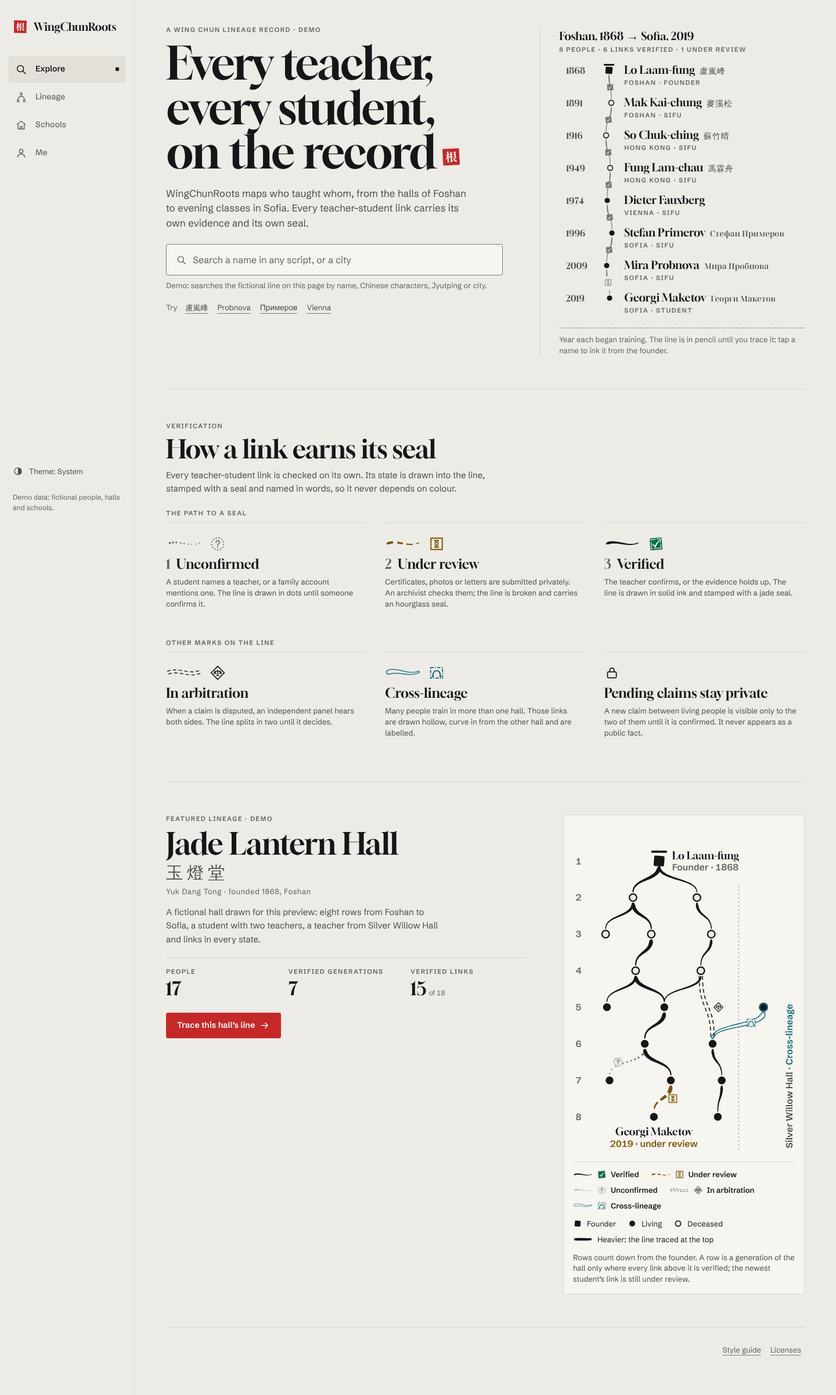
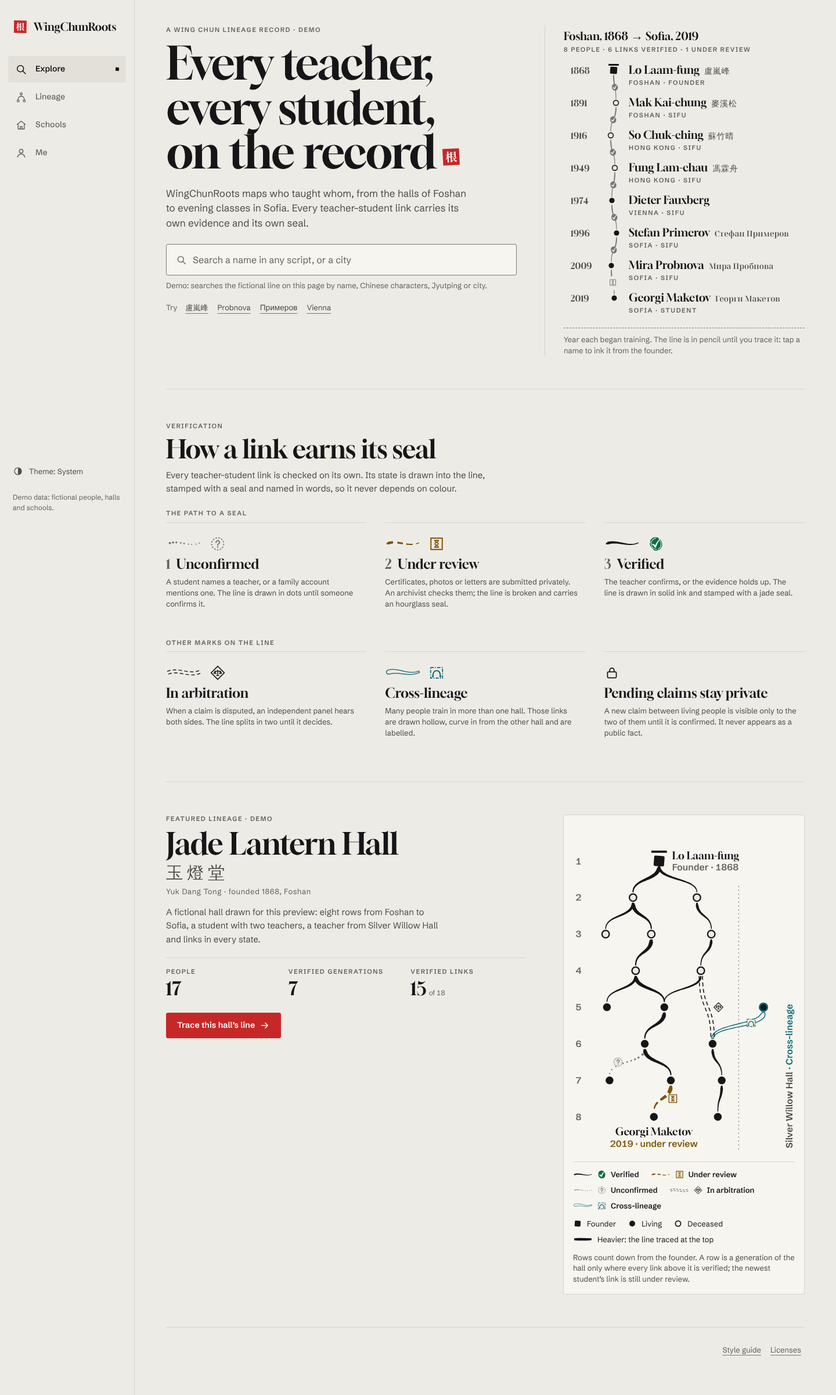
docs(m00b): second review round in the direction, ADR, guide and screenshots
Records the clipped peek, the focus expansion, the published sheet room,
the one-column home line up to 1280 px and the round verified chop in
docs/design/direction.md, ADR 0006 and the user guide; adds the seal shape
to question 2 and a third round to the design review; regenerates the
screenshots of / and /styleguide.

Claude-Session: https://claude.ai/code/session_01STyQUAPRBBmWDHTxvJbxAV

Changed region(s): [[0.6875, 0.0, 0.9062, 0.2499]]

diff --git a/docs/adr/0006-design-system.md b/docs/adr/0006-design-system.md
@@ -29,7 +29,7 @@ M00b превежда избраната дизайн посока в токен
 
    | Състояние | Щрих | Печат | Текст |
    |---|---|---|---|
-   | Потвърдено | плътен, в мастило (`--fg`) | нефритен печат, натиснат леко накриво, с ръб, „попил“ в хартията, и отметка с четка, издълбана в него (негатив); при 20 px и повече и издълбана рамка | „Verified“ |
+   | Потвърдено | плътен, в мастило (`--fg`) | кръгъл нефритен печат, натиснат леко накриво, с отметка с четка, издълбана в него (негатив); при 20 px и повече неравен, изрязан на ръка ръб и издълбан пръстен, прекъснат там, където отметката излиза от него; под 20 px отделна опростена рисунка (гладък овал и по-плътна отметка). Квадратният печат от първия кръг се четеше като квадратче за отметка (☑) | „Verified“ |
    | В преглед | накъсан | пясъчен часовник | „Under review“ |
    | Непотвърдено | пунктир от точки | „?“ | „Unconfirmed“ |
    | Арбитраж | двоен | везни | „In arbitration“ |
@@ -53,12 +53,12 @@ M00b превежда избраната дизайн посока в токен
 7. **Компоненти.** shadcn/ui върху Base UI 1.9.0 (`components.json`, стил `base-nova`), оформени по посоката, в `src/components/ui/`: Button, Input, Dialog, Drawer (долен панел на телефон, страничен панел вдясно от 768 px; виж т. 7а), Menu, Tabs, Toast, Skeleton, StatusBadge и TrailChip. Button има вариант `danger` за разрушителни действия (рамка и надпис в `--danger`, не в червеното на марката) и натиснат тон за всеки вариант, една стъпка след посочения. Toast е „листче“ върху `surface-2` с черта 3 px в цвета на вида (`verified`, `under_review`, `info`), печат за състоянието и 10 s до затваряне (паузира при посочване, фокус и докосване). Dialog е центриран от 640 px, с линия под заглавието; когато е по-висок от екрана, превърта целият изглед, така че заглавието и „Close“ остават достъпни. Менюто се рисува в `<main>`, за да остане всичко в ориентир (axe „region“). Навсякъде `render`, никога `asChild` (`scripts/verify.d/M00b.sh` го проверява). Отворен панел или диалог добавя запис в историята (`use-back-to-close.ts`), затова бутонът „Назад“ на Android затваря най-горния слой. `/styleguide` (`noindex`) показва токените и компонентите в двете теми.
 8. **Обвивка** (`src/components/shell/`). Телефон: горна лента (56 px) и четири раздела долу (64 px плюс безопасната зона): Explore, Lineage, Schools, Me. Компютър: странична лента 232 px. `viewport-fit=cover` и `env(safe-area-inset-*)`, `min-h-dvh` (никъде `100vh` или `h-screen`), цели за докосване поне 44×44 px, нищо само при посочване, връзка „Skip to content“. Разделите на бъдещите маршрути (`/explore`, `/schools`, `/dashboard`) засега водят до страницата „not drawn yet“ (404) и не се зареждат предварително.
 9. **Движение.** 150/200/250 ms с `ease-out`; проследяването с мастило до основателя върви само след докосване, по 110 ms на поколение и общо до 1 s, и никога не спира въвеждането. Нищо не тръгва само. При `prefers-reduced-motion: reduce` всички продължителности са 0 ms.
-7а. **Долен и страничен панел (Drawer).** На телефон модалният панел (по подразбиране) се отваря на половин височина, където се вижда затъмнението зад него; спира на половин и цял екран (`MODAL_SNAP_POINTS`). Затъмнението е плътно на всяка точка на спиране и избледнява само при отваряне и затваряне. Немодалният панел (над карта или граф) се отваря „надникнал“: поне 96 px и никога по-нисък от собствената си заглавна част, така че заглавие на два реда при 150 % текст се вижда цяло; спира на надникване, половин и цял екран (`PEEK_SNAP_POINTS`). Той стои над долните раздели, които пазят безопасната зона, така че навигацията остава достъпна, а докато надниква, тялото му е `inert` и клавиатурата не стига до съдържание извън екрана. Влаченето е за цялото тяло; „Expand“/„Collapse“ и „Close“ са алтернативата. Всяко отваряне започва от първата точка. От 768 px същият компонент е страничен панел вдясно, широк `--sheet-w` (420 px) и висок колкото прозореца, който се плъзга надясно; това е мястото, където M05 ще показва доказателствата (Living Archive).
+7а. **Долен и страничен панел (Drawer).** На телефон модалният панел (по подразбиране) се отваря на половин височина, където се вижда затъмнението зад него; спира на половин и цял екран (`MODAL_SNAP_POINTS`). Затъмнението е плътно на всяка точка на спиране и избледнява само при отваряне и затваряне. Немодалният панел (над карта или граф) се отваря „надникнал“: поне 96 px и никога по-нисък от собствената си заглавна част, така че заглавие на два реда при 150 % текст се вижда цяло; спира на надникване, половин и цял екран (`PEEK_SNAP_POINTS`). Той лежи върху долните раздели, които пазят безопасната зона, и изгледът му го отрязва там (`max-md:overflow-hidden`): Base UI измества цял панел надолу до точката на спиране, а неотрязаната част се рисуваше върху разделите и ги правеше недостъпни. Панелът е висок най-много колкото изгледа си, затова и разгънат остава над разделите. Докато надниква, тялото му е `inert` и клавиатурата не стига до съдържание извън екрана. Под пълната височина фокус, който попадне под долния ръб на изгледа (Tab или скрипт; с пръст не може), първо разгъва панела, така че фокусираният елемент не е скрит (WCAG 2.4.11). Докато е отворен, панелът публикува на `<html>` колко място заема: `--sheet-clear` на телефон (от долния край на прозореца до горния ръб на панела при точката на спиране) и `--sheet-inline` от 768 px (ширината на страничния панел); Toast се показва над панела или вляво от страничния панел, а не върху заглавието и бутоните му. Влаченето е за цялото тяло; „Expand“/„Collapse“ и „Close“ са алтернативата. Всяко отваряне започва от първата точка. От 768 px същият компонент е страничен панел вдясно, широк `--sheet-w` (420 px) и висок колкото прозореца, който се плъзга надясно; това е мястото, където M05 ще показва доказателствата (Living Archive).
 10. **Бюджети и автоматични проверки.**
     - `scripts/check-bundle-budget.mjs` след `next build`: първоначално зареденият JavaScript на всеки маршрут, gzip, ≤ 170 kB (1 kB = 1000 байта). Брои основните файлове от `build-manifest.json` и всички клиентски входове на маршрута от `*_client-reference-manifest.js` без страницата за глобална грешка и проверява срещу `<script src>` в предварително рендерирания HTML, така че промяна в манифестите на Next.js не може незабелязано да намали броенето. Към 17.10.2026 (след първия преглед): `/` 161,5 kB, `/legal/licenses` и `/_not-found` 146,4 kB, `/styleguide` 240,5 kB от своите 250 kB.
     - Lighthouse 13.4.1 за `/` в мобилен профил (`scripts/lighthouse.mjs` с `chrome-launcher` 1.2.1; праговете са в `lighthouserc.json`), три пускания, медианата: LCP < 2,5 s и CLS < 0,1. `scripts/verify.d/M00b.sh` и CI пускат собствен `next start` и печатат LCP и CLS. Скриптът замени `@lhci/cli` 0.15.1: последното му издание е от юни 2025, заключва Lighthouse 12.6.1 и внасяше в дървото за разработка осем известни уязвимости (пет високи), които `pnpm audit --prod` не вижда. `lighthouse` 13.4.1 изисква `puppeteer-core` с уязвим `basic-ftp`; `pnpm-workspace.yaml` го насочва към `puppeteer-core` 25.12.0 (`overrides`), който Lighthouse ползва само за потребителски потоци, не и за един URL.
     - INP (план §5.8 (в)) още не се мери: в M00b няма ключово взаимодействие с данни, а панелът и проследяването са демонстрации. Тестът с web-vitals и 4× забавяне на процесора идва в M05 с изследователя и истинския панел на човек.
-    - `e2e/routes.ts` е списъкът на страниците; `e2e/a11y.spec.ts` пуска axe на всяка от тях в двете теми. `e2e/ui.spec.ts` пуска axe и с отворени диалог, панели, меню и toast, и проверява поведението, което няма как да се види на снимка: „Назад“ затваря диалога и панела, без да оставя запис в историята, надникването и тялото `inert`, затъмнението на модалния панел, страничния панел от 768 px, текст при 150 % (редовете, разделите, заглавието на панела), полетата поне 16 px, нито един надпис под 11 px на `/` от 320 px до компютър (рисунката на залата също), връзката „Skip to content“ над безопасната зона, раздела Lineage след хидратация и проследяването с мастило (и при намалено движение).
+    - `e2e/routes.ts` е списъкът на страниците; `e2e/a11y.spec.ts` пуска axe на всяка от тях в двете теми. `e2e/ui.spec.ts` пуска axe и с отворени диалог, панели, меню и toast, и проверява поведението, което няма как да се види на снимка: „Назад“ затваря диалога и панела, без да оставя запис в историята, надникването и тялото `inert`, че нищо от надникващия панел не е нарисувано върху разделите (`elementFromPoint`, не само геометрия) и докосване на раздел навигира, фокус под половин височина разгъва панела, toast над отворен панел, затъмнението на модалния панел, страничния панел от 768 px, текст при 150 % (редовете, разделите — всеки надпис на един ред, и при 320 px —, заглавието на панела), имената в линията не се пренасят посред дума от 768 px до компютър и гръбнакът, нарисуван на сървъра, съвпада с имената без JavaScript от 390 px до 1440 px, полетата поне 16 px, нито един надпис под 11 px на `/` от 320 px до компютър (рисунката на залата също), връзката „Skip to content“ над безопасната зона, раздела Lineage след хидратация и проследяването с мастило (и при намалено движение).
     - Шрифтовете (`e2e/smoke.spec.ts`): предварително се зареждат точно двата latin файла; Noto Serif Display се тегли веднъж на `/` (има кирилско име) и изобщо не на `/legal/licenses`.
     - Визуална регресия (`e2e/visual.spec.ts`, таг `@visual`, проект `visual`) за `/` и `/styleguide` при 390×844 и 1440×900 в двете теми. Китайските знаци (системни шрифтове, различни на различните машини) и текстът на подсказките стават прозрачни чрез `stylePath` (`e2e/visual.css`), вместо да се закриват с маска, която закриваше и долните раздели. Върви само в CI, където Chromium е точно версията на закачения Playwright. Базовите снимки са в `e2e/__screenshots__/visual.spec.ts/*-linux.png` и се сменят само с commit (`docs/guides/admin-guide.bg.md`, „Визуална регресия“).
     - `@screenshots` (`pnpm screenshots`) записва `docs/screenshots/M00b/`.
@@ -118,7 +118,7 @@ M00b превежда избраната дизайн посока в токен
 ## Отворени въпроси към собственика
 
 1. **Посоката.** Ink Register или друга посока или смесица. Докато няма отговор, важи Ink Register.
-2. **Цветът на „Verified“.** Нефритено зелено (по подразбиране), червен печат като в прототипа (тогава червеното значи и марка, и потвърдено) или `#00E676` от плана. И трите минават контраста; статусът винаги има и форма, и текст.
+2. **Цветът и формата на „Verified“.** Нефритено зелено (по подразбиране), червен печат като в прототипа (тогава червеното значи и марка, и потвърдено) или `#00E676` от плана. И трите минават контраста; статусът винаги има и форма, и текст. Формата по подразбиране е кръгъл печат с издълбана отметка (т. 4), след като квадратният се четеше като квадратче за отметка.
 3. **Бюджетите и темата без JavaScript.** Бюджетът от 250 kB за `/styleguide`, Lighthouse с `devtools` вместо симулирано забавяне и темата, която без JavaScript следва системата (`questions/M00b.md`, въпрос 3).
 
 ## Решения по подразбиране
@@ -135,6 +135,8 @@ M00b превежда избраната дизайн посока в токен
 - Lighthouse с `devtools` забавяне, три пускания, медиана (въпрос 3 към собственика).
 - INP се мери от M05.
 - Модалният панел се отваря на половин височина; надникването е само за немодален панел.
+- Печатът „Verified“ е кръгъл (не квадратен), с отметка с четка; въпрос 2 към собственика.
+- Началната страница е в една колона до 1279 px; от 1280 px линията е в своя колона вдясно.
 - Основното действие на началната страница проследява линията, докато изследователят (M05) не съществува.
 - Бюджетът на `/styleguide` е 250 kB; 1 kB = 1000 байта (въпрос 3 към собственика).
 - Разделите на бъдещите маршрути водят до страницата „not drawn yet“.

diff --git a/docs/design/direction.md b/docs/design/direction.md
@@ -37,7 +37,7 @@ PR на M00b не се слива, докато собственикът не п
 |---|---|---|
 | Ink Lineage | Токените „мастило, хартия, печат“ (същите като план §5.2), серифен шрифт за имената (Gloock), шрифт за интерфейса (Schibsted Grotesk), статусът, нарисуван в щриха и подпечатан с печат, проследяването до основателя, което се „изписва“ с мастило след докосване | `src/design/tokens.ts`, `src/design/fonts.ts`, `src/components/ink/`, началната страница |
 | Living Archive | Карти с фиксиран размер за ELK, текстов надпис на всяка връзка от фокусирания път, лента „Gen ?“, чипове за връзки извън екрана, панел, който започва с доказателствата, съдържание под надникването, което е `inert` | M05 и M06 (изследователят); в M00b страничният панел от 768 px и `inert` при надникване (`src/components/ui/drawer.tsx`) |
-| Transit Map | Долният панел с надникване от поне 96 px (за немодален панел над карта или граф; модалният се отваря на половин височина); крайната спирка към основателя („↑ Gen 1 · <име>“) | `src/components/ui/drawer.tsx` (`PEEK`), крайната спирка на началната страница |
+| Transit Map | Долният панел с надникване от поне 96 px (за немодален панел над карта или граф, отрязан над долните раздели, които остават видими и докосваеми; модалният се отваря на половин височина); крайната спирка към основателя („↑ Gen 1 · <име>“) | `src/components/ui/drawer.tsx` (`PEEK`), крайната спирка на началната страница |
 | Constellation | Винаги видимата легенда; чипът „Back to <name>“, който връща по историята на фокуса | `src/components/ink/legend.tsx`, `src/components/ui/trail-chip.tsx` |
 
 ## Решения
@@ -45,13 +45,13 @@ PR на M00b не се слива, докато собственикът не п
 1. **Палитра.** Тъмната тема е „нощна хартия“: черен лак (`#121214`) с топло сиво мастило (`#EAEAEA`). Светлата тема е „оризова хартия“ (`#EDEBE5`) с лампово черно мастило (`#161618`). Тъмната е по подразбиране; темата следва системата, докато човек не избере ръчно.
 2. **Червеното е само за марката и основното действие.** Печатът на марката (`--brand`) и основният бутон. Червеното не означава „потвърдено“, не е избор, не е връзка и не е грешка (грешките са в отделен тон `--danger`).
 3. **„Verified“ не е червено.** Прототипът Ink Lineage рисува потвърдения печат в червено, а план §5.2 иска зелено (`#00E676`). По подразбиране потвърденото е нефритено зелено (`#45D98F` в тъмната тема, `#0A6E43` в светлата): по-спокойно от `#00E676`, със същата роля като в плана и различно от червения печат. Това е отворен въпрос към собственика ([`questions/M00b.md`](../plan/questions/M00b.md), ADR 0006).
-4. **Статусът никога само с цвят.** Всяко състояние има щрих, печат и текст: потвърдено — плътен щрих и нефритен печат, натиснат леко накриво, с издълбана отметка (не квадратче за отметка); в преглед — накъсан щрих и пясъчен часовник; непотвърдено — пунктир от точки и „?“; арбитраж — двоен щрих и везни; учител от друга линия — куха крива с надпис „Cross-lineage“. Легендата е винаги видима.
+4. **Статусът никога само с цвят.** Всяко състояние има щрих, печат и текст: потвърдено — плътен щрих и кръгъл нефритен печат, натиснат леко накриво, с издълбана отметка с четка (кръгъл като официален печат, за да не се чете като квадратче за отметка ☑; от 20 px нагоре с неравен, изрязан на ръка ръб и издълбан пръстен, прекъснат там, където отметката излиза от него; под 20 px опростен овал с по-плътна отметка; формата е въпрос към собственика заедно с цвета); в преглед — накъсан щрих и пясъчен часовник; непотвърдено — пунктир от точки и „?“; арбитраж — двоен щрих и везни; учител от друга линия — куха крива с надпис „Cross-lineage“. Легендата е винаги видима.
 5. **Приглушаване само с плътни тонове** (план §4.7): `--unconfirmed` за щрихите, `--border-strong` за рамките, `--fg-muted` за текста, а печатите с `tone="dim"` — същата форма без цвета на състоянието. Никога прозрачност. Непроследената линия е „чернова с молив“; проследяването я изписва с мастило, а приглушените редове слизат с един тон надолу, никога нагоре.
 6. **Шрифтове.** Gloock за имена, заглавия и числа; Schibsted Grotesk за интерфейса; Noto Serif Display за кирилица в заглавията (Gloock няма основна кирилица), зареждан само при нужда; системни CJK шрифтове за китайски. Всички се хостват от приложението. Най-малкият надпис е 11 px. Поколенията се пишат с арабски цифри.
 7. **Ъгли.** Остри, като на хартия: 2–6 px; долните панели имат мек горен ръб 18 px.
 8. **Движение.** Само след действие на човека, общо до 1 s, без нищо, което тръгва само. При „намалено движение“ всичко е мигновено.
 9. **Обвивка.** На телефон: горна лента и четири раздела долу (Explore, Lineage, Schools, Me); на компютър: странична лента. Безопасните зони (`env(safe-area-inset-*)`), `dvh`, цели за докосване поне 44×44 px, нищо само при посочване. Бутонът „Назад“ на Android затваря най-горния панел.
-10. **Началната страница.** Тезата („Every teacher, every student, on the record“), търсене в демо линията с мастилен „гръбнак“ до основателя, как връзката получава печата си („How a link earns its seal“: „The path to a seal“ и „Other marks on the line“) и една избрана линия с бутон „Trace this hall’s line“. На телефон линията е веднага под заглавието, така че първият екран показва самия предмет. Всички хора и зали са измислени (D20).
+10. **Началната страница.** Тезата („Every teacher, every student, on the record“), търсене в демо линията с мастилен „гръбнак“ до основателя, как връзката получава печата си („How a link earns its seal“: „The path to a seal“ и „Other marks on the line“) и една избрана линия с бутон „Trace this hall’s line“. На телефон и таблет (до 1279 px) линията е веднага под заглавието, така че първият екран показва самия предмет. От 1280 px линията е в своя колона вдясно (28 rem, от 1536 px 30 rem), достатъчно широка, за да е всяко име с оригинала си на един ред: така редовете са с еднаква височина и гръбнакът, нарисуван на сървъра, съвпада с имената и преди JavaScript. Всички хора и зали са измислени (D20).
 
 ## Как се сменя посоката
 

diff --git a/docs/design/reviews/M00b.md b/docs/design/reviews/M00b.md
@@ -20,6 +20,17 @@
 | Метаредовете в демо линията („FOSHAN · FOUNDER“) са на 1 px под името; в Ink Lineage ритъмът е по-свободен | 4 px между името и метареда; редовете остават по 56 px |
 | Снимките от CI (Chromium на закачения Playwright) показват същите шрифтове и разстояния като местните; китайските имена се маскират, защото идват от системните шрифтове | Без промяна |
 
+## Кръг 3 (17.10.2026, втори преглед след поправките)
+
+| Находка | Решение |
+|---|---|
+| Квадратният печат „Verified“ с издълбана рамка и отметка се чете като квадратче за отметка (☑), най-вече при 13 px в линията и в значката „Verified“ | Кръгъл печат, натиснат леко накриво, с отметка с четка; от 20 px нагоре изрязан на ръка ръб и издълбан пръстен, прекъснат от отметката; под 20 px отделна опростена рисунка. Проверено при 1x и 3x в двете теми; формата е част от въпрос 2 към собственика |
+| Между 768 и около 890 px (таблет, разделен екран) колоната с имената е 39–61 px: всяко име се пренася посред дума, заглавието е на шест реда, а без JavaScript гръбнакът е на стотици пиксели от имената | Началната страница е в една колона до 1279 px (като на телефон); от 1280 px линията има своя колона (28 rem, от 1536 px 30 rem), в която всяко име с оригинала си е на един ред. Редовете са по 56 px при всяка ширина, затова гръбнакът от сървъра съвпада с имената и без JavaScript (тест от 390 до 1440 px) |
+| Надникващият немодален панел покрива всички долни раздели: те не се виждат и не се докосват, а тестът минава, защото `toBeInViewport` мери само геометрията | Изгледът на немодалния панел го отрязва над разделите на телефон; панелът е висок най-много колкото изгледа си. Тестът проверява с `elementFromPoint` центъра на всеки раздел и докосва „Lineage“ |
+| Модалният панел на половин височина пуска клавиатурата до бутони под долния ръб на екрана | Фокус под долния ръб първо разгъва панела; в `/styleguide` панелът завършва с действие („Copy the link“), което тестът достига с Tab |
+| Toast при отворено надникване пада върху заглавието и бутоните на панела | Панелът публикува `--sheet-clear` / `--sheet-inline`; Toast е над панела (или вляво от страничния панел) |
+| При 150 % текст „SCHOOLS“ в долните раздели се пренася посред думата | Заявки за контейнер в `em` на самия надпис: под 5,75 em разредката е 0,03 em, под 5 em надписът е без главни букви; тест при 390 и 320 px |
+
 ## Преглед на кода (17.10.2026, `/code-review` преди окончателната проверка)
 
 Поправени са само грешки и пропуски спрямо изискванията:

diff --git a/docs/plan/M00b-design-system.md b/docs/plan/M00b-design-system.md
@@ -87,3 +87,4 @@ M00. Изборът на собственика, записан в `docs/design/
 - 2026-10-17 12:20 — CI на 4bd11a9 (run 39031266430): падат само 8-те визуални теста (очаквано: `/` и `/styleguide` са променени нарочно) и в мобилния WebKit заглавието на панела при 150 % текст: Gloock е 1,2 em висок, а `line-clamp` реже по редовете от 1,15 em, затова заглавието е с `leading-tight` (36e33cc). Новите 8 базови снимки са приети от лога (`scripts/visual-baselines.sh accept`, проверени размер и SHA-256, прегледани)
 - 2026-10-17 12:35 — CI на 735d887 (run 39031949241) е зелен: `VERIFY all: PASS` (Node 24, PostgreSQL 18, Chromium и мобилен WebKit, визуалните тестове с новите базови снимки), lint, typecheck и unit на Node 22, gitleaks и pnpm audit. Локално `scripts/verify.sh M00b` на 735d887: `VERIFY M00b: PASS` (87 проверки, 383 unit, 71 интеграционни, 54 e2e; JavaScript: / 161,5 kB, /styleguide 240,5 kB; Lighthouse: медиана LCP 1800 ms, CLS 0)
 - 2026-10-17 12:55 — CI на 61d7300 (run 39032950027, само ред в дневника) падна в `mobile-chromium` на теста за safe-area: `boundingBox()` на раздел върна null. Причина: предварително генерираната страница изпраща първо резервния списък на разделите (Suspense), а React го заменя с изпратения по-късно списък кадър или повече след `load` (локално в 4 от 20 зареждания); тестът намира раздела с едно извикване и го мери с друго. Тестът за safe-area и тестът за 150 % текст мерят четирите видими раздела с една стъпка в страницата; проверките са същите. Двата теста минават 24 от 24 пъти; `scripts/verify.sh M00b`: `VERIFY M00b: PASS`
+- 2026-10-17 14:05 — втори кръг на прегледа (4 средни и 4 ниски бележки, всички потвърдени): надникващият панел на телефон е изрязан над долните раздели и те остават достъпни за докосване, а модалният панел на половин височина се разгъва, когато фокусът с Tab попадне под долния край на екрана; toast-ът стои над отворения панел (3c1aa8e); линията на началната страница е в една колона до 1280 px, затова имената не се пренасят по средата на думата, а гръбнакът без JavaScript е на нивото на имената (534a079); печатът „Verified“ е кръгъл печат с четка, с опростен вариант под 20 px, а не квадратче с отметка (260fd0a); надписите на разделите остават на един ред при 150 % текст (04cdff3); всеки текст на лиценз се пази веднъж в `/legal/licenses`, а редовете за авторското право се показват отделно за всеки пакет (d153594); нови проверки в `e2e/ui.spec.ts`: какво се вижда в центъра на всеки раздел, фокус под панела, toast над панела, редове на надписите, таблети от 768 до 1440 px и гръбнакът без JavaScript (cd7e56b); `direction.md`, ADR 0006, ръководството, въпрос 2 (формата на печата) и прегледът на дизайна; нови снимки

diff --git a/docs/guides/user-guide.bg.md b/docs/guides/user-guide.bg.md
@@ -47,7 +47,7 @@ WingChunRoots записва кой на кого е преподавал Wing C
 
 ### 1. Тезата и демо линията
 
-Заглавието „Every teacher, every student, on the record“ (завършва с печата на сайта) и **демо линия**: осем поколения на една измислена зала, от основателя във Foshan до ученик в София, всяко със своя връзка към предишното. На телефон линията е веднага под заглавието, а обяснението и търсенето са след нея; на компютър линията е вдясно.
+Заглавието „Every teacher, every student, on the record“ (завършва с печата на сайта) и **демо линия**: осем поколения на една измислена зала, от основателя във Foshan до ученик в София, всяко със своя връзка към предишното. На телефон и таблет линията е веднага под заглавието, а обяснението и търсенето са след нея; на широк екран (от 1280 px) линията е вдясно.
 
 Докато не изберете човек, линията е **„чернова с молив“**: тънки сиви линии със същия рисунък (плътна, накъсана, от точки) и бледи печати. Така се вижда цялата линия, без нищо да е подчертано.
 
@@ -63,7 +63,7 @@ WingChunRoots записва кой на кого е преподавал Wing C
 |---|---|---|---|
 | Unconfirmed | пунктир от точки | „?“ | Връзката е посочена, но още не е потвърдена от учителя или с доказателства |
 | Under review | накъсана линия | пясъчен часовник | Има подадени доказателства и архивист ги проверява |
-| Verified | плътна линия | нефритен печат с издълбана отметка | Потвърдена от учителя или с доказателства, които издържат проверката |
+| Verified | плътна линия | кръгъл нефритен печат с издълбана отметка | Потвърдена от учителя или с доказателства, които издържат проверката |
 | In arbitration | двойна линия | везни | Спорна връзка; независим състав изслушва двете страни |
 | Cross-lineage | куха извита линия | мост | Учител от друга линия (зала) |
 

diff --git a/docs/plan/questions/M00b.md b/docs/plan/questions/M00b.md
@@ -27,7 +27,9 @@ M00b did not stop on these questions: it continues with the proposed defaults, a
 
 All three pass the contrast checks in `src/design/contrast.test.ts`, and the state is always shown by stroke, seal and text as well, never by colour alone.
 
-**Proposed default:** option 1, jade green (recorded in `docs/adr/0006-design-system.md`).
+**The shape of the seal (added after the second review).** The first version, a square chop with a carved check, read as a ticked checkbox (☑), most of all at 13 px in the line and in the "Verified" badge. The default is now a round chop pressed slightly askew with a brush check carved out of it, the way an official seal is stamped: from 20 px it has a hand-cut edge and a carved ring broken where the check leaves it; below 20 px it is a simplified oval with a bolder check (`src/components/ink/seal.tsx`, `/styleguide`). The other states keep their outline shapes (square with an hourglass, dashed circle with "?", diamond with scales), so "verified" is the only filled seal.
+
+**Proposed default:** option 1, jade green, on the round chop (recorded in `docs/adr/0006-design-system.md`).
 
 **Answer:** (filled in by the owner)
 
